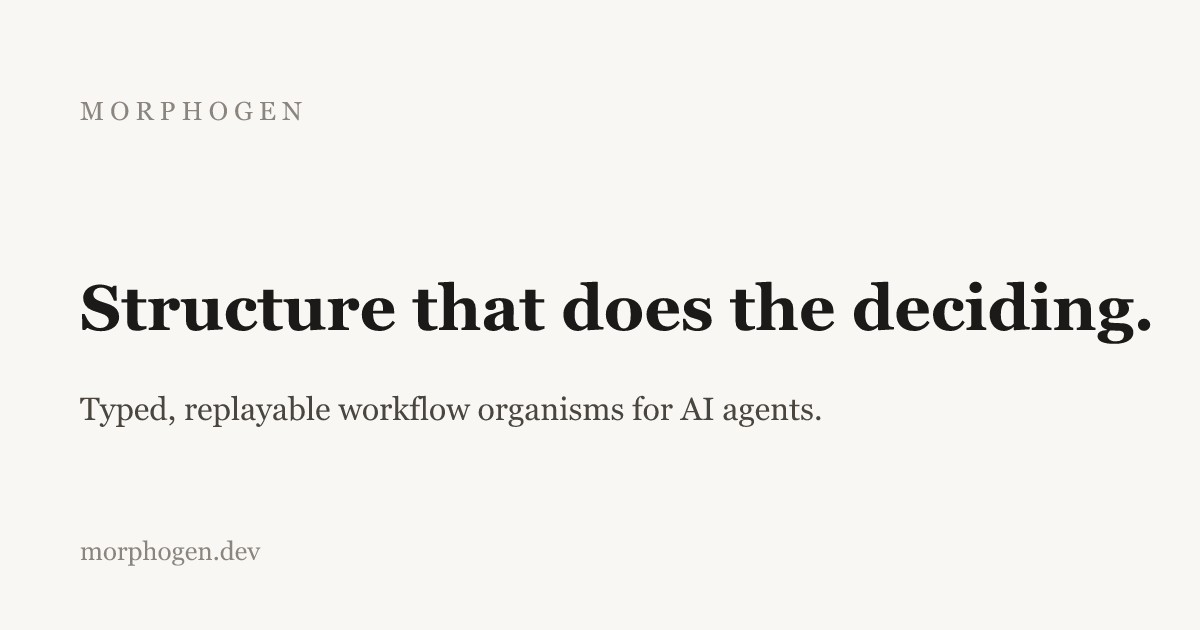
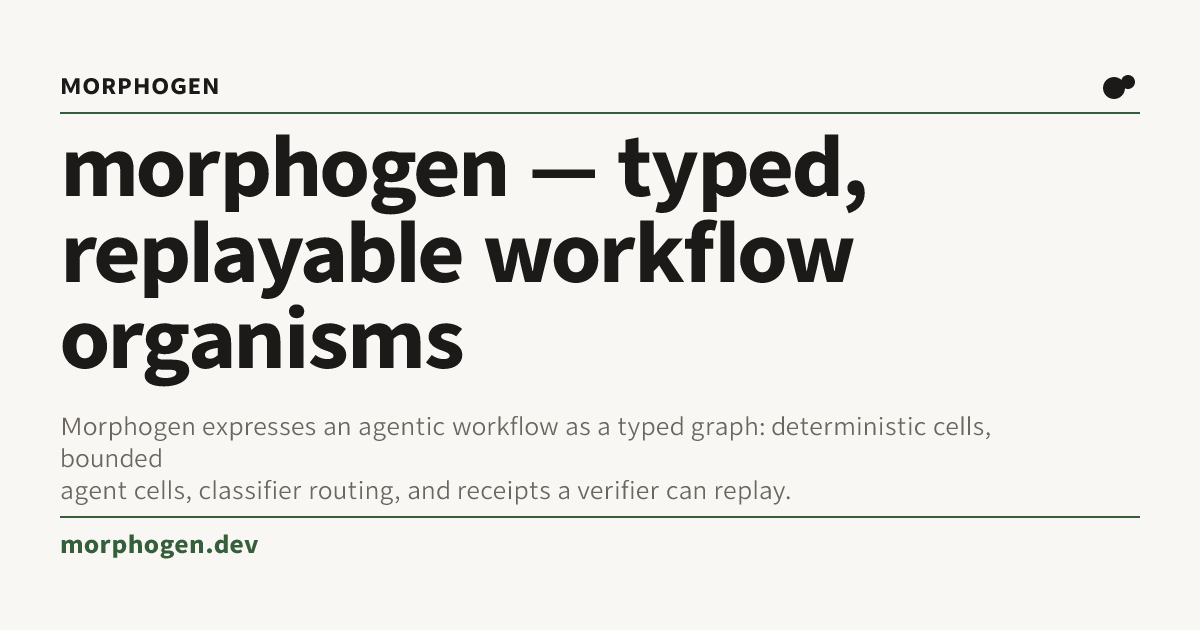
Generate branded social card from shared layout
Use the Next-free web-discovery card export with pinned satori and
resvg tooling to generate the product-owned static social image.

Generated with [Devin](https://devin.ai)

Changed region(s): [[0.0308, 0.1206, 0.9558, 0.6937], [0.0308, 0.7238, 0.925, 0.9048]]

diff --git a/site/generate-og.tsx b/site/generate-og.tsx
@@ -1,0 +1,46 @@
+import { writeFile } from "node:fs/promises";
+import { dirname, join } from "node:path";
+import { fileURLToPath } from "node:url";
+
+import { createSocialImageCard } from "@hraness/web-discovery/social-image/card";
+import { Resvg } from "@resvg/resvg-js";
+import satori from "satori";
+
+const siteDirectory = dirname(fileURLToPath(import.meta.url));
+
+const mark = (
+  <svg aria-label="morphogen" height="42" role="img" viewBox="0 0 42 42" width="42">
+    <circle cx="16" cy="23" r="11" fill="currentColor" />
+    <circle cx="30" cy="17" r="7" fill="currentColor" />
+  </svg>
+);
+
+const card = createSocialImageCard({
+  description:
+    "Morphogen expresses an agentic workflow as a typed graph: deterministic cells, bounded agent cells, classifier routing, and receipts a verifier can replay.",
+  domain: "morphogen.dev",
+  eyebrow: "morphogen",
+  mark,
+  theme: {
+    accent: "#355e3b",
+    background: "#f8f7f4",
+    foreground: "#1c1a18",
+    muted: "#6b675f",
+  },
+  title: "morphogen — typed, replayable workflow organisms",
+});
+
+const svg = await satori(card.element, {
+  fonts: card.fonts.map((font) => ({
+    data: font.data,
+    name: font.name,
+    style: font.style,
+    weight: font.weight,
+  })),
+  height: card.height,
+  width: card.width,
+});
+const png = new Resvg(svg).render().asPng();
+await writeFile(join(siteDirectory, "og.png"), png);
+await writeFile(join(siteDirectory, "og.svg"), `${svg}\n`);
+console.log(`Wrote ${png.byteLength} bytes to ${join(siteDirectory, "og.png")}`);
